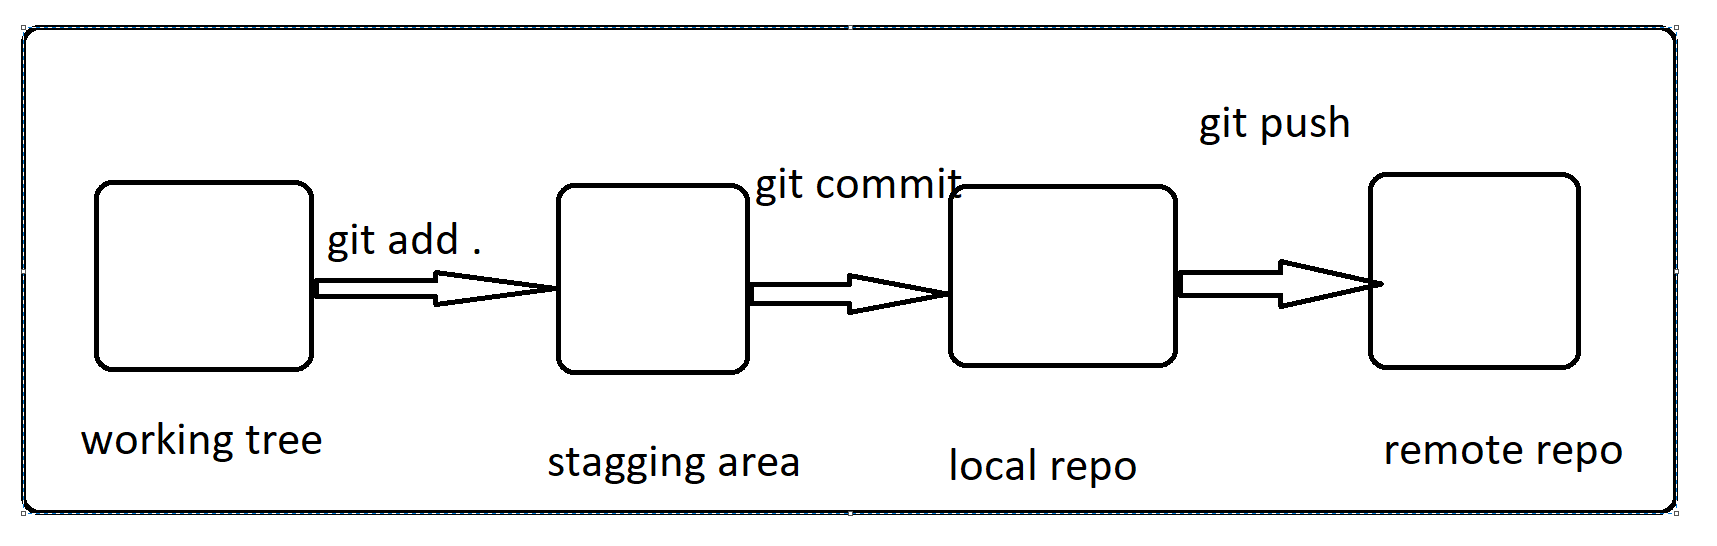
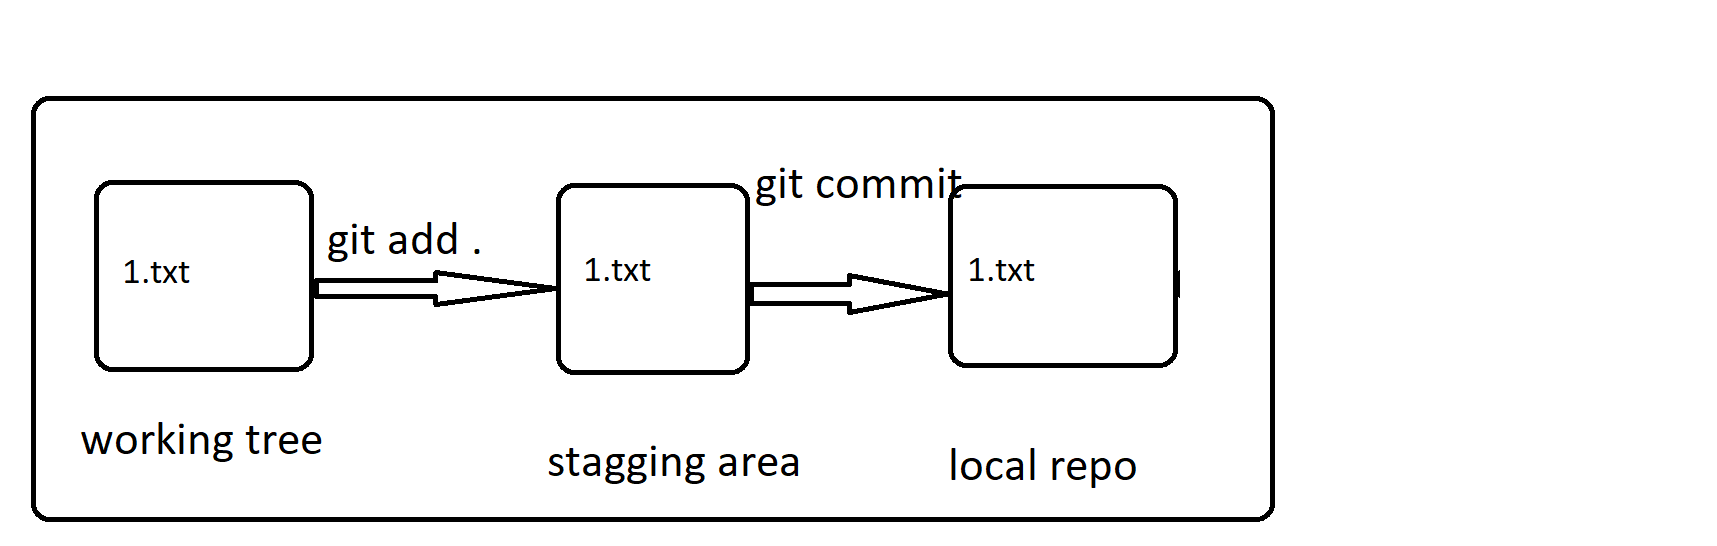
s

diff --git a/FEB-2023/Git/Git.md b/FEB-2023/Git/Git.md
@@ -32,14 +32,6 @@
 ![preview](../images/CVCS_VS_DVCS.png)
 
 
-## THREE phases in git:
-1. Working tree
-2. Stagging area
-3. Local repo
-4. Remote repo .
-
-![preview](../images/git2.png)
-
 ## prerequisites:
 * Install choco :
   [REFER HERE](https://chocolatey.org/docs/installation)
@@ -54,16 +46,13 @@
   [REFER HERE](https://chocolatey.org/packages/MobaXTerm)
   
 
-##  Working on git 
-```
- mkdir gitpractice
+## THREE phases in git:
+1. Working tree
+2. Stagging area
+3. Local repo
+4. Remote repo .
 
- cd gitpractice
-
- git init  ---  To intilalize the git in the present folder.
-
-```
-![preview](../images/git3.png)
+![preview](../images/git2.png)
 
 * To see the changes made 
 ```
@@ -80,6 +69,35 @@ git add .
 ```
 git commit -m "< added some changes>"
 ```
+
+
+##  Initializing Git on local  : 
+
+```
+ mkdir gitpractice
+
+ cd gitpractice
+
+ git init  ---  To intilalize the git in the present folder.
+
+```
+![preview](../images/git3.png)
+
+## Scenario : Create a file 1.txt and move from workingarea to Localrepo :
 ![preview](../images/git4.png)
+
+```
+touch 1.txt 
+
+git status 
+
+git add . 
+
+git commit -m "adding 1.txt" 
+
+```
+
 ![preview](../images/git5.png)
+![preview](../images/G9999.png)
+
 
